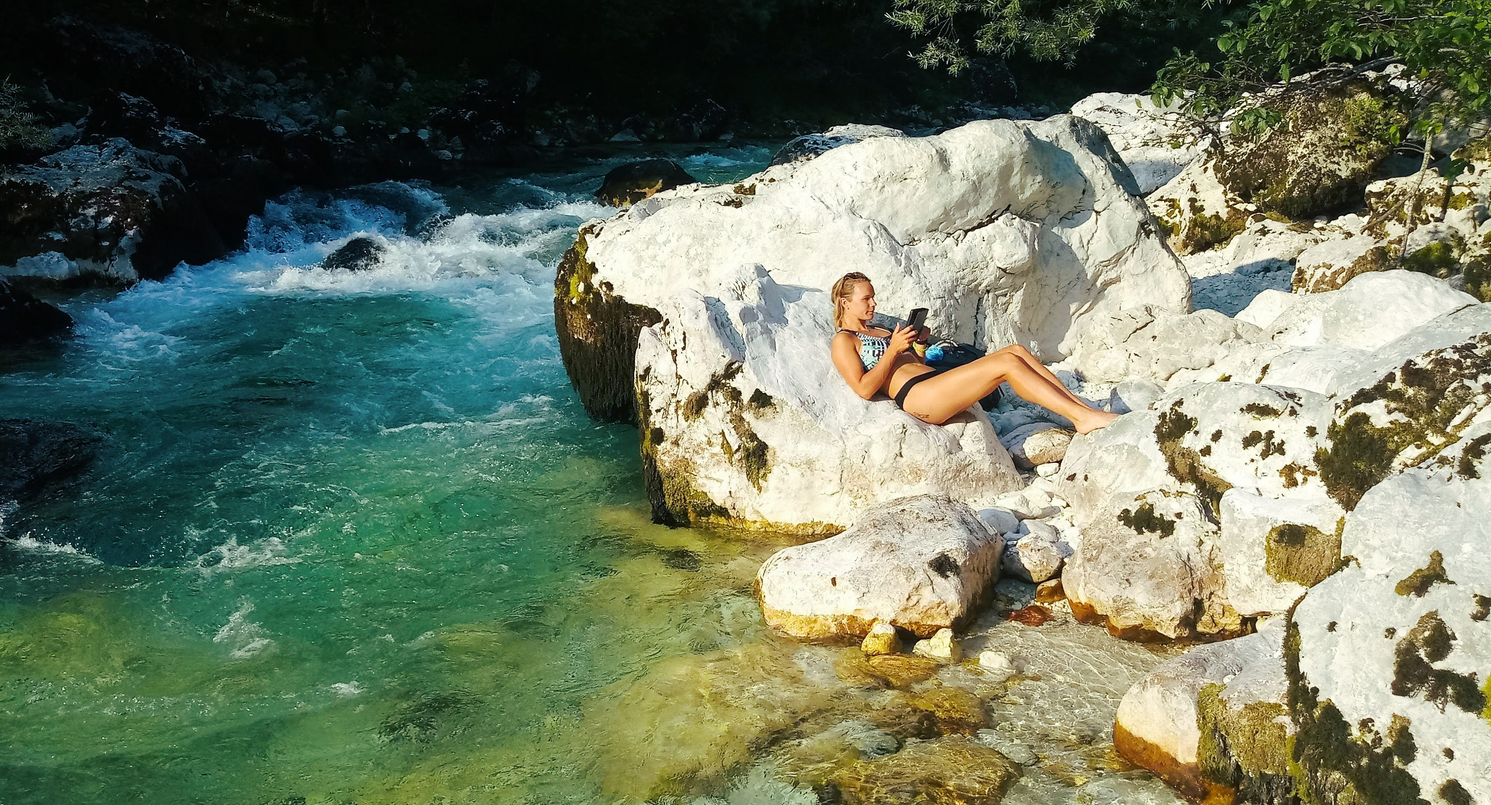
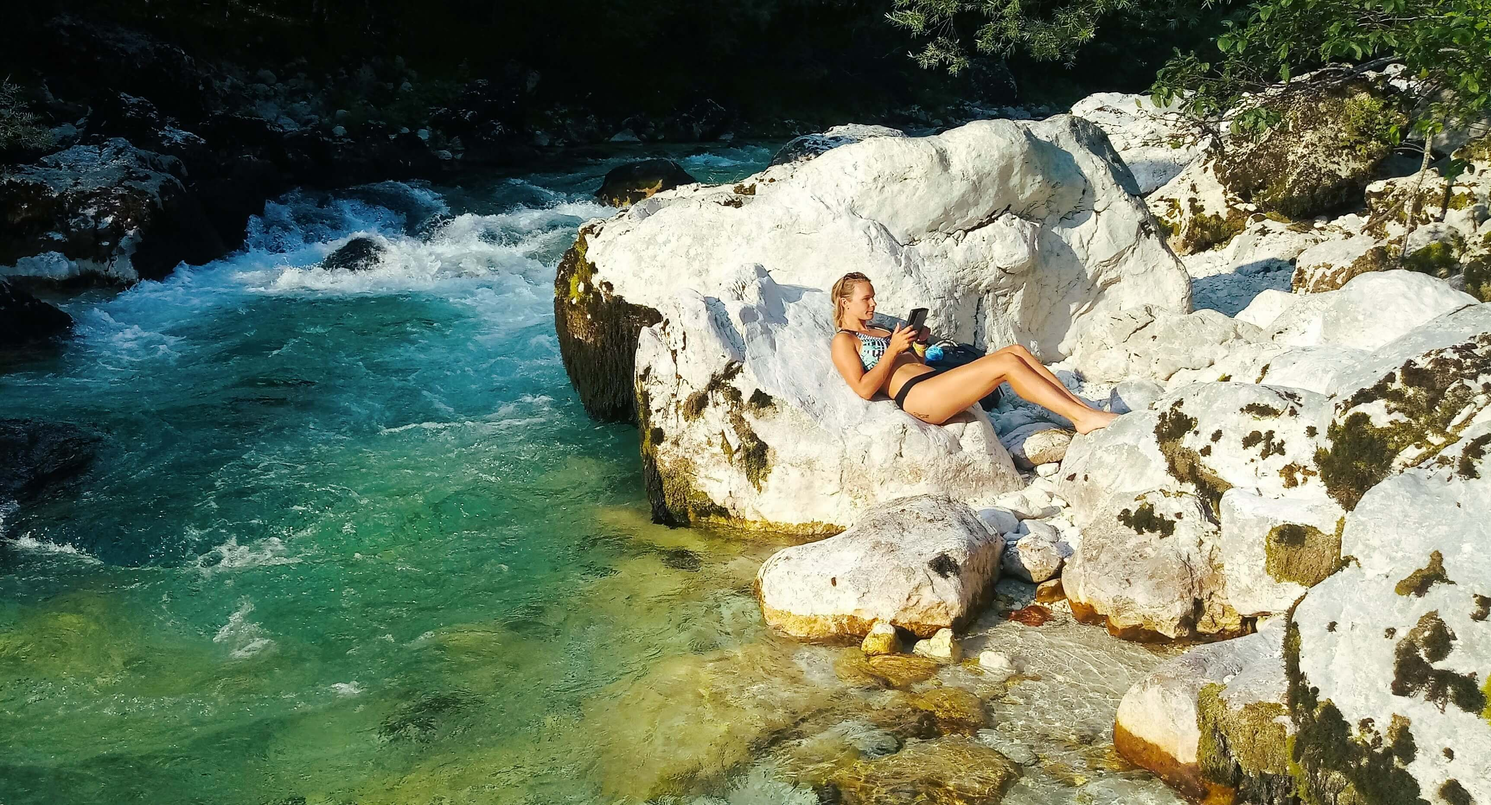
delete bg-img loader; reduce img file sizes

diff --git a/src/js/script.js b/src/js/script.js
@@ -62,36 +62,6 @@ document.addEventListener('DOMContentLoaded', () => {
   }
   // End Intersection Observer
 
-  // Background image loader
-  const containers = document.querySelectorAll('.bg-image');
-
-  containers.forEach(container => {
-    // Get the image URLs from the data attributes
-    const bgLarge = container.dataset.bg;
-    const bgSmall = container.dataset.bgPhone;
-
-    // Decide which image URL to use based on screen size
-    const bgImageUrl =
-        window.matchMedia("(max-width: 575px)").matches && bgSmall
-          ? bgSmall
-          : bgLarge;
-
-    if (!bgImageUrl) return; // Skip if no valid URL is provided
-
-    const img = new Image();
-    img.src = bgImageUrl;
-
-    img.onload = () => {
-      container.style.backgroundImage = `url(${bgImageUrl})`;
-
-      // Hide the loader once the image is fully loaded
-      const loader = container.querySelector('.loader');
-      if (loader) loader.style.display = 'none';
-    };
-  });
-  // End
-
-
   // Sliding underline for nav tabs and next/prev buttons
   const tabs = document.querySelectorAll('.nav-tabs button.nav-link');
   const dropdownItems = document.querySelectorAll('.dropdown-menu .dropdown-item');

diff --git a/src/leefstijlcoaching.md b/src/leefstijlcoaching.md
@@ -12,7 +12,6 @@ pageKey: "lifestyleCoaching"
       <div class="col-12 position-relative m-0 p-0">
         <!-- Background image container -->
         <div class="bg-image lifestylecoach-img animate-slide-in-left" data-bg="/img/lifestylecoach_2.jpg" data-bgPhone="/img/lifestylecoach_2.jpg">
-          <div class="loader">Loading...</div>
         </div>
         <!-- Text overlay -->
         <div class="text-overlay lifestylecoach-text animate-slide-in-right bg-white bg-opacity-75 p-4 p-xxl-5">

diff --git a/src/index.md b/src/index.md
@@ -26,7 +26,6 @@ navbarClass: "fixed-top"
       <div class="col-12 position-relative m-0 p-0">
         <!-- Background image container -->
         <div class="bg-image welcome-img animate-slide-in-left" data-bg="/img/Feli_mountain.jpg" data-bgPhone="/img/Feli_mountain_cut.jpg">
-          <div class="loader">Loading...</div>
         </div>
         <!-- Text overlay -->
         <div class="text-overlay welcome-text animate-slide-in-right-welcome bg-white bg-opacity-75 p-4 p-xxl-5">

diff --git a/src/personal-training.md b/src/personal-training.md
@@ -12,7 +12,6 @@ pageKey: "personalTraining"
       <div class="col-12 position-relative m-0 p-0">
         <!-- Background image container -->
         <div class="bg-image ptraining-img animate-slide-in-left" data-bg="/img/Feli_mangart.jpg" data-bgPhone="/img/Feli_mangart.jpg">
-          <div class="loader">Loading...</div>
         </div>
         <!-- Text overlay -->
         <div class="text-overlay ptraining-text animate-slide-in-right bg-white bg-opacity-75 p-4 p-xxl-5">

diff --git a/src/over.md b/src/over.md
@@ -12,7 +12,6 @@ pageKey: "about"
       <div class="col-12 position-relative m-0 p-0">
         <!-- Background image container -->
         <div class="bg-image aboutme-img animate-slide-in-right" data-bg="/img/Feli_soca2_cut.jpg" data-bgPhone="/img/Feli_soca2_phone.jpg">
-          <div class="loader">Loading...</div>
         </div>
         <!-- Text overlay -->
         <div class="text-overlay aboutme-text animate-slide-in-left bg-white bg-opacity-75 p-4 p-xxl-5">

diff --git a/src/voor-haar.md b/src/voor-haar.md
@@ -12,7 +12,6 @@ pageKey: "forHer"
       <div class="col-12 position-relative m-0 p-0">
         <!-- Background image container -->
         <div class="bg-image forher-img animate-slide-in-left" data-bg="/img/Feli_soca.jpg" data-bgPhone="/img/Feli_soca_phone.jpg">
-          <div class="loader">Loading...</div>
         </div>
         <!-- Text overlay -->
         <div class="text-overlay forher-text animate-slide-in-right bg-white bg-opacity-75 p-4 p-xxl-5">

diff --git a/src/contact.md b/src/contact.md
@@ -12,7 +12,6 @@ pageKey: "contact"
       <div class="col-12 position-relative m-0 p-0">
         <!-- Background image container -->
         <div class="bg-image contact-img animate-slide-in-right" data-bg="/img/Cezsoca.jpg" data-bgPhone="/img/soca.jpg">
-          <div class="loader">Loading...</div>
         </div>
         <!-- Text overlay -->
         <div class="text-overlay contact-text animate-slide-in-left bg-white bg-opacity-75 p-4 p-xxl-5">
